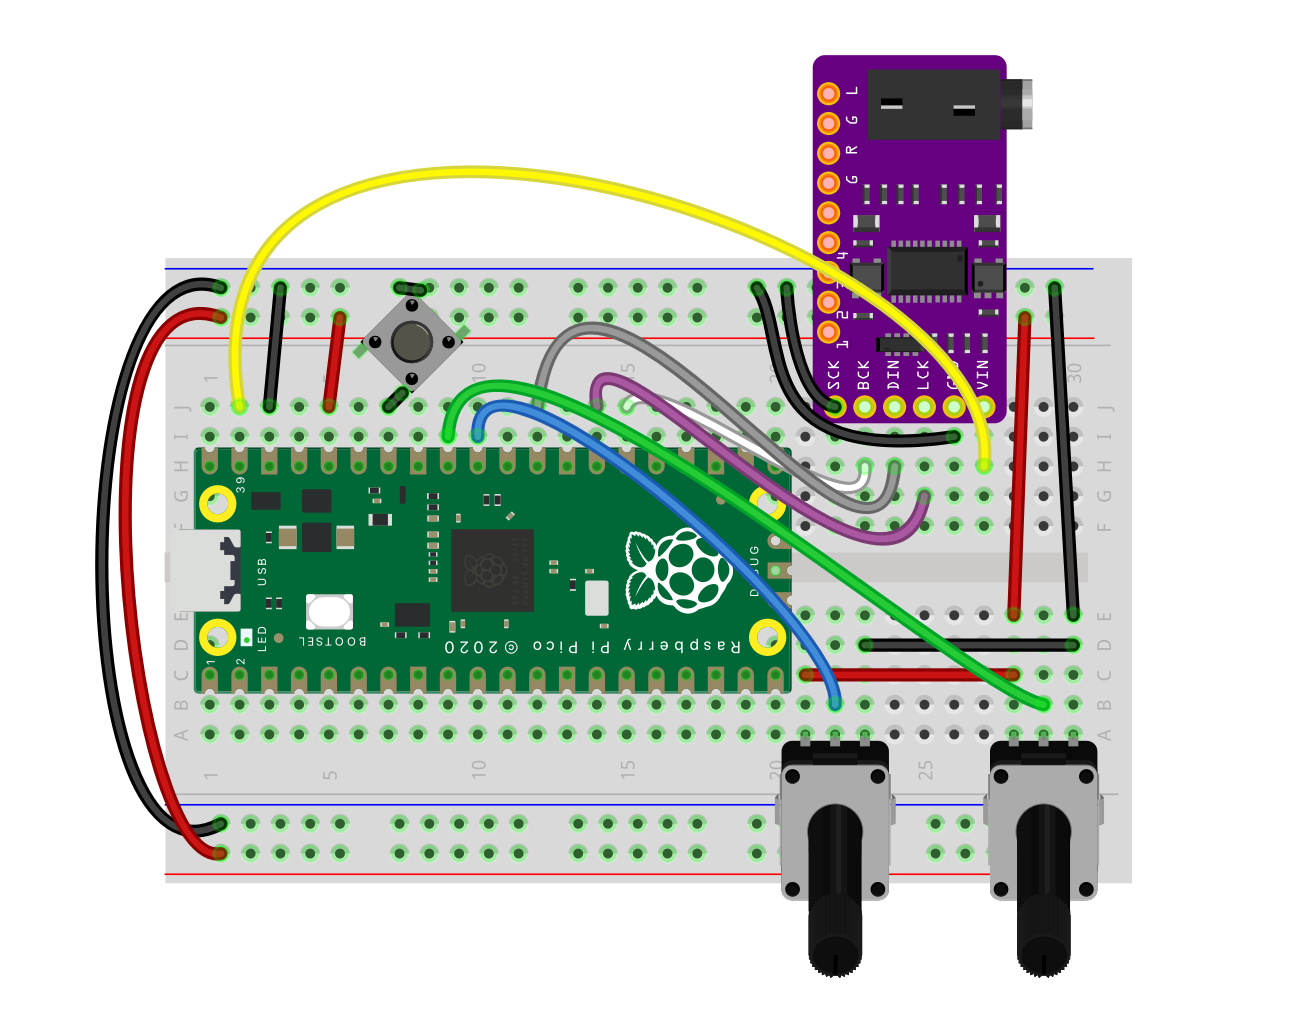
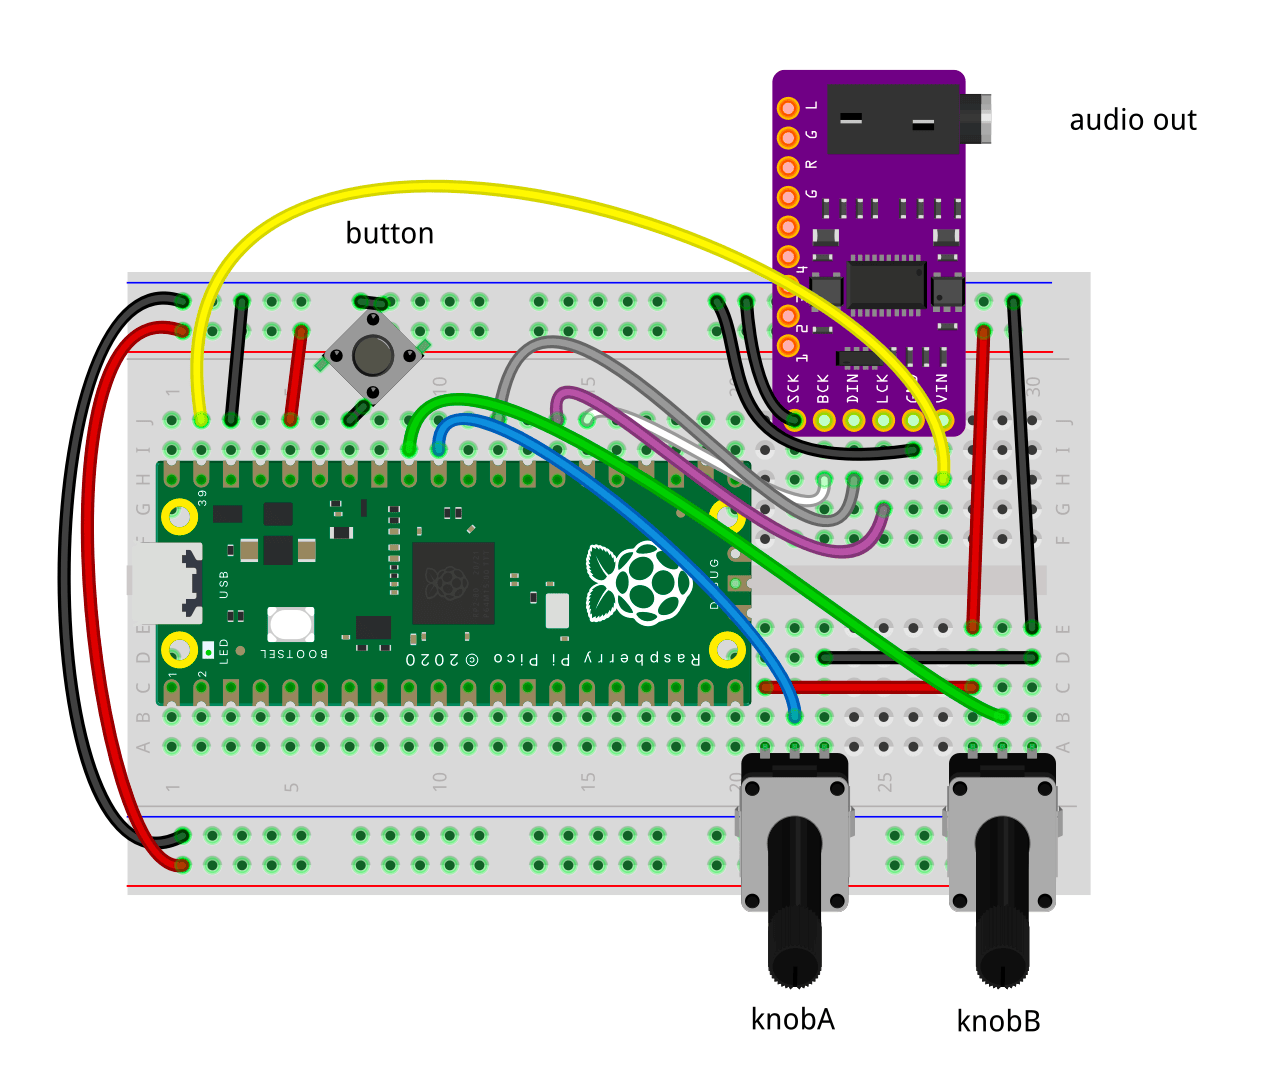
update wiring diagrams

diff --git a/README-1-Getting-Started.md b/README-1-Getting-Started.md
@@ -52,10 +52,21 @@ intermittent, making them frustrating.
 
 <img src="./docs/synthio_tutorial_wiring1.png" width=400/>
 
+Fitting that all on a half-sized breadboard is cramped, here's how you might
+wire it up on a full-sized breadboard:
+
+<img src="./docs/synthio_tutorial_wiring1_full.png" width=800/>
+
 
 ### Using the pico_test_synth PCB
 
-[ image of pico_test_synth ]
+You can also use my [pico_test_synth](https://github.com/todbot/pico_test_synth) PCB
+to handle all the wiring for you.
+It includes two knobs, a button, and a PCM5102 I2S DAC, as well as a
+little I2C OLED display and 16 captouch pads.
+
+<a href="https://github.com/todbot/pico_test_synth"><img src="./docs/pico_test_synth1.jpg" width=400/></a>
+
 
 ## Code setup
 
